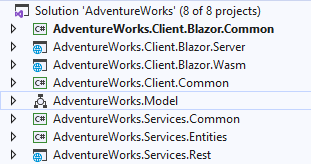
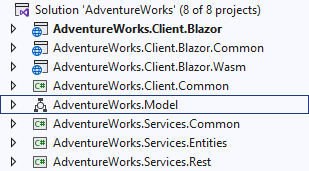
Updated the first chapter of the tutorial for new release.

diff --git a/docs/tutorial/1-basic/1-create.md b/docs/tutorial/1-basic/1-create.md
@@ -12,17 +12,25 @@ To create a new Xomega solution select the *New Project* option in your Visual S
 
 ![Solution template](img1/solution-template.png)
 
-Select the* Xomega Solution* template, and click *Next* to get to the following screen.
+Select the *Xomega Solution* template, and click *Next* to get to the following screen.
 
 ![Configure project](img1/configure-project.png)
 
 Set *AdventureWorks* as the project name, select the location where to create the solution, check the checkbox to place the solution and project in the same directory, and click *Create*.
 
+:::note
+If you are using Xomega for the first time, you may get asked to supply a license file here, as shown below.
+
+![License](img1/license.png)
+
+If you haven't done it yet, you'll need to download the license file from your order, and then select that file in the next dialog.
+:::
+
 ## Xomega solution configuration
 
 You should see a *Xomega Solution Configuration* screen, which allows you to pick and configure client-side and server-side technologies and projects that you want to use in your solution. Any other projects that are required for your selection will be automatically included in the solution as well.
 
-We are going to start with the Blazor technology in this tutorial, so let's include *Blazor WebAssembly* and *Blazor Server* in our solution, as shown below.
+We are going to start with the Blazor technology in this tutorial, so let's select *ASP.NET Core Blazor* project, as shown below.
 
 ![Solution projects](img1/solution-projects.png)
 
@@ -40,20 +48,55 @@ Once you select the projects for your solution, click *Preview* to view and upda
 You can also specify this configuration for each project on the previous screen by expanding the corresponding projects.
 :::
 
-We will use the default configuration, so you can go ahead and click the *Create* button.
+We will use the default configuration that includes both Blazor Server and WebAssembly interactive rendering using the `Auto` mode and hosts the REST API right in the Blazor project, so that you don't have to run a separate project for it. Therefore you can just go ahead and click the *Create* button.
 
 ## Blazor solution structure
 
 Creating a solution with all the projects may take a while as all the dependency packages are being restored, and the projects are being configured, but once the dust settles, you can collapse all projects and see the following eight projects created in your solution.
 
 ![Solution structure](img1/solution-structure.png)
+
 - **AdventureWorks.Model** is the project that will contain your XML domain and service models for the application, and various generators that perform model transformations and code generation.
 - **AdventureWorks.Services.Common** project will have all interfaces and data contracts (DTOs) for your service model, as well as other classes that are shared between the client and the services layers.
 - **AdventureWorks.Services.Entities** project will contain the back-end domain object classes based on Entity Framework, as well as implementations of the services that use these domain objects.
 - **AdventureWorks.Services.Rest** project will contain Web API controllers that expose the services via the REST interface.
 - **AdventureWorks.Client.Common** project will contain Xomega Framework C# data objects for the presentation layer, as well as view models for different views, and will encapsulate a significant part of the client logic. These objects and view models are not specific to any particular client and are reused by all C# based clients, such as WPF clients, Blazor Server or WebForms. This is why they are configured to have their own project.
 - **AdventureWorks.Client.Blazor.Common** project will contain Blazor views and components that are shared between the Blazor Server and WebAssembly projects.
-- **AdventureWorks.Client.Blazor.Server** project is the main application project for the Blazor Server client.
-- **AdventureWorks.Client.Blazor.Wasm** project is the main application project for the Blazor WebAssembly client.
+- **AdventureWorks.Client.Blazor.Wasm** project contains the Blazor WebAssembly client.
+- **AdventureWorks.Client.Blazor** project is the main application project for the Blazor client.
 
-Now that you understand the solution structure, let's import our initial Xomega model from the sample database.
+## Review the empty application
+
+Now that you understand the solution structure, let's build the solution and run the application that we got out of the box. Our solution template created an empty application that is secured with a user name and password, so you should see the following login screen.
+
+![Login Guest](img1/login-guest.png)
+
+:::note
+The basic classes for the login screen and its supporting services are actually generated from a model file `login.xom` that came with the solution template, but the template also included some customized classes to make the screen look properly.
+:::
+
+:::warning
+The template also added some code to **pre-populate the user name and password** with some default values to make it easier for you to run the app during the development. You should **remove this code** after you implement proper security for your app.
+:::
+
+Given that the login screen has been generated from the model as a details view, you can immediately see some standard features of the details views that you get for free.
+
+For example, all required fields are automatically marked with a red asterisk in front of their labels. Any invalid fields will be highlighted in red, with the validation message displayed right below the field. And if you try to submit an invalid form, the summary of all validation errors will be also displayed at the top, as illustrated in the following picture.
+
+![Login no password](img1/login-nopassword.png)
+
+Furthermore, the initial solution template has set up all the plumbing for checking the security, where you just need to implement the last bit of the actual check for the user name and password in a special login service, which we will do at the end of this tutorial.
+
+By default, it allows any user name and the word `password` as the password. If you enter a different password, you'll see the following error from the login service, which gives you an idea of how an invalid login will look and feel in the real app.
+
+![Login invalid](img1/login-invalid.png)
+
+If you enter the default user name and *password*, then you should get to a blank *Home* screen with a (rather empty) sidebar menu, as illustrated below.
+
+![Home screen](img1/home-page.png)
+
+:::note
+Take note of the logged-in user's name in the top right corner, as well as a *Sign out* menu, which will log you out and will take you back to the *Login* screen.
+:::
+
+Now that we have reviewed the blank initial Blazor application that we created, let's import our Xomega model from a sample database, so that we could build out our app further.

diff --git a/docs/tutorial/1-basic/5-run.md b/docs/tutorial/1-basic/5-run.md
@@ -6,13 +6,33 @@ sidebar_position: 5
 
 Let's go ahead and build the solution. If everything has been set up and run correctly, you should get no build errors.
 
-## Running Blazor Server application
+## Interactive render modes
 
-To run a Blazor Server application you can right-click on the *AdventureWorks.Client.Blazor.Server* project and set it as a startup project, and then hit F5 to start the application in Debug mode.
+The way we configured our solution initially was to use the `InteractiveAuto` render mode for Blazor pages. This means that **while Blazor WebAssembly libraries are being loaded** by the browser, any interactivity on the screens will be provided by the *Blazor Server*. Once the WebAssembly is loaded, the screens will transition to being rendered by the Blazor WebAssembly technology.
 
-### Home page
+However, you can easily change the render mode in the `App.razor` file under the `AdventureWorks.Client.Blazor.Common` project. For example, if you want to run the application exclusively using Blazor Server, you can change the `RenderModeForPage` to be `InteractiveServer` as follows.
 
-Your browser should launch the *Home* screen of the web application with a collapsible side navigation menu. The menu will have a sub-menu for our Sales module, which contains menu options to open the search form for sales orders, and a form to create new sales orders.
+```razor title='App.razor'
+...
+@code {
+<!-- removed-next-line -->
+    private IComponentRenderMode RenderModeForPage => InteractiveAuto;
+<!-- added-next-line -->
+    private IComponentRenderMode RenderModeForPage => InteractiveServer;
+}
+```
+
+Similarly, you can change it to `InteractiveWebAssembly` to have the screens rendered by Blazor WebAssembly only. The only difference for this mode with the `InteractiveAuto` would be that the app will show a *loading* screen while WebAssembly libraries are being loaded, instead of rendering it with Blazor Server.
+
+These architectures are substantially different under the hood, where Blazor Server has direct access to the database and other server-side resources, while Blazor WebAssembly needs to make REST API calls to read or save data. However, thanks to the flexible Xomega architecture, our application is designed to work the same way whichever render mode you choose.
+
+## Reviewing new screens
+
+To review the new *Sales Order* screens that we generated from the model, let's run the application and click the *Login* button on the [login screen](create#review-the-empty-application) using default *Guest* credentials.
+
+### Sidebar menu
+
+If you expand the sidebar menu on the *Home* screen, you'll notice that it now has a sub-menu for our *Sales* module, which contains menu options to open the search form for sales orders, and a form to create new sales orders as follows.
 
 ![App home](img5/app-home.png)
 
@@ -20,7 +40,7 @@ Let's click on the *Sales Order List* menu to see the generated search form for 
 
 ### Search criteria
 
-As you can see below, the *Sales Order List* form has a collapsible side panel, where you can specify search criteria by all of the sales order fields. For maximum flexibility, each criterion allows the selection of an operator based on the type of field.
+As you can see below, the *Sales Order List* form has a collapsible side panel, where you can specify search criteria by all of the sales order fields. For maximum flexibility, each criterion allows selection of an operator based on the type of field.
 
 ![App criteria](img5/app-criteria.png)
 
@@ -52,27 +72,13 @@ It is worth noting a number of editing features that the details view will provi
 
 **Required fields** are automatically highlighted with a red asterisk here.
 
-**Modification tracking.** If you change any field, the *Save* button will become enabled, and you'll notice an asterisk next to the view title indicating that the view has been modified. If you try to close a modified details view, you'll get a warning about unsaved changes, where you can either discard the changes and close the view, or cancel and keep the view open.
+**Modification tracking.** If you change any field, the *Save* button will become enabled, and you'll notice an asterisk next to the view title indicating that the view has been modified. If you try to close a modified details view, you'll get the following warning about unsaved changes, where you can either discard the changes and close the view, or cancel and keep the view open.
+
+![Unsaved changes](img5/unsaved-changes.png)
 
 **Fields validation.** If you enter invalid values into the fields or leave a required field blank, the invalid fields will turn red, and you'll see a validation message under each field. If you also try to save an invalid view, you'll see a summary of validation errors displayed at the top of the view, as shown below.
 
 ![Validation summary](img5/validation-summary.png)
-
-As you know, Blazor Server applications are run on the server and can access any libraries and resources, including directly calling the business services. Let's take a look at what it would take to run our application as a WebAssembly.
-
-## Running WebAssembly application
-
-Thanks to the Xomega architecture and the solution structure that cleanly separates application layers, you can run Blazor apps as a WebAssembly without any code changes. Since WebAssembly applications run entirely in the browser, they need to access business and data services via a REST API, or via some other HTTP-based API.
-
-Luckily, the Xomega solution wizard already included the REST API project for our business services. So, to run our app as a WebAssembly, all you have to do is to open the solution properties, and set both the WebAssembly and REST API projects as startup projects, as follows.
-
-![Wasm startup](img5/wasm-startup.png)
-
-If you run the application now, you'll see that it looks exactly like the Blazor Server application, despite using a different architecture.
-
-You may notice the standard 'Loading...' message during the initial load, or if you refresh the page, but otherwise the only visible difference would be a different port in the application URL.
-
-![Wasm search](img5/wasm-search.png)
 
 ## Summary
 

diff --git a/docs/tutorial/1-basic/2-import.md b/docs/tutorial/1-basic/2-import.md
@@ -16,7 +16,7 @@ Double-click on the generator to open its properties, and click on the editor fo
 
 ![Connection dialog](img2/connection-dialog.png)
 
-You will need to provide the connection string, which you can also specify in a separate dialog by clicking the *Configure* button. We will select the *SQL Native Client* provider, and the sample *AdventureWorks2016* database on the local SQL server instance using windows authentication, as shown below.
+You will need to provide the connection string, which you can also specify in a separate dialog by clicking the *Configure* button. We will select the *Microsoft OLE DB Provider for SQL Server*, and the sample *AdventureWorks2022* database on the local SQL server instance using windows authentication, as shown below.
 
 ![Connection provider](img2/connection-provider.png) ![Connection properties](img2/connection-properties.png) 
 
@@ -38,4 +38,4 @@ Once the generator is finished running, you should see the imported model files 
 
 The model objects were imported from the database using the database structure, as well as any model setup that existed before the import, such as the logical types defined.
 
-This is a good start, but it is not enough to build a fully-fledged application beyond just a "database table editor". To model our application and describe different services and views that it will have, we need to further enhance our model with all that information, which is what we're going to do next.
+This is a good start, but it is not enough to build a fully-fledged application beyond just a "database table editor". To model our application and describe different services and views that it will have, we need to further enhance our model with all that information about application views, data objects and services, which is what we're going to do next.

diff --git a/docs/tutorial/get-started.md b/docs/tutorial/get-started.md
@@ -23,7 +23,7 @@ To run this tutorial you will need to make sure you have the following installed
 1. Sample Microsoft database [AdventureWorks](https://github.com/Microsoft/sql-server-samples/releases/tag/adventureworks) installed on your local or network SQL server. See [instructions](https://github.com/Microsoft/sql-server-samples/blob/master/samples/databases/adventure-works/README#install-from-a-backup) on how to restore it from a backup.
 
 :::warning
-This tutorial is based on [version 2016](https://github.com/Microsoft/sql-server-samples/releases/download/adventureworks/AdventureWorks2016.bak) of the AdventureWorks database.
+This tutorial is based on [version 2022](https://github.com/Microsoft/sql-server-samples/releases/download/adventureworks/AdventureWorks2022.bak) of the AdventureWorks database.
 If you use a different version of the database, you may see some differences from this tutorial.
 :::
 

diff --git a/docs/tutorial/1-basic/4-build.md b/docs/tutorial/1-basic/4-build.md
@@ -34,4 +34,4 @@ You can resolve the warning about the `numeric` logical type later by updating t
 
 The warnings from the *EF Domain Objects* generator tell you that some fields in the database and the model use a `hierarchy` type that is not supported by the Entity Framework yet, or a `geography` type, for which there is currently no mapping in the model, and therefore will be skipped in the generated domain classes.
 
-As you can see, the model build process, among other artifacts, also generated Service Implementations and Blazor Views. This allows us to go straight to building the entire solution and running the application.
+As you can see, the model build process, among other artifacts, also generated *Service Implementations* and *Blazor Views*. This allows us to go straight to building the entire solution and running the application.
